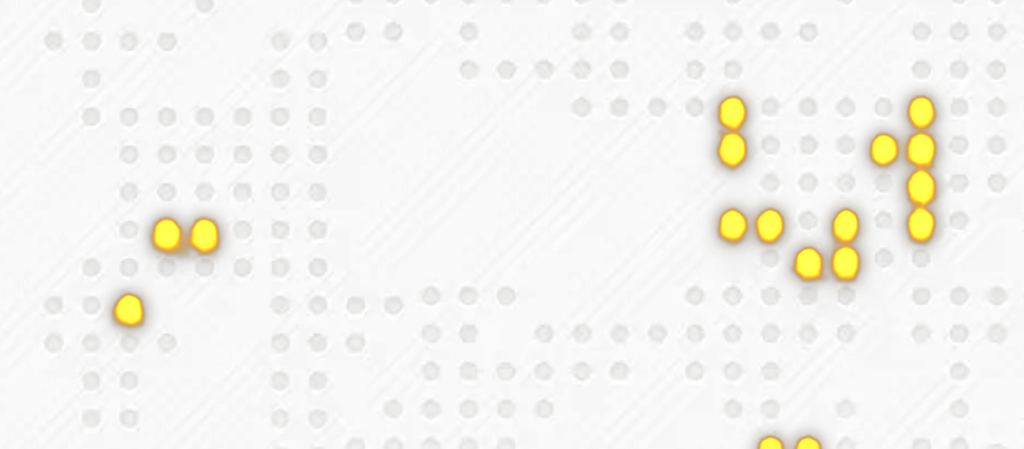
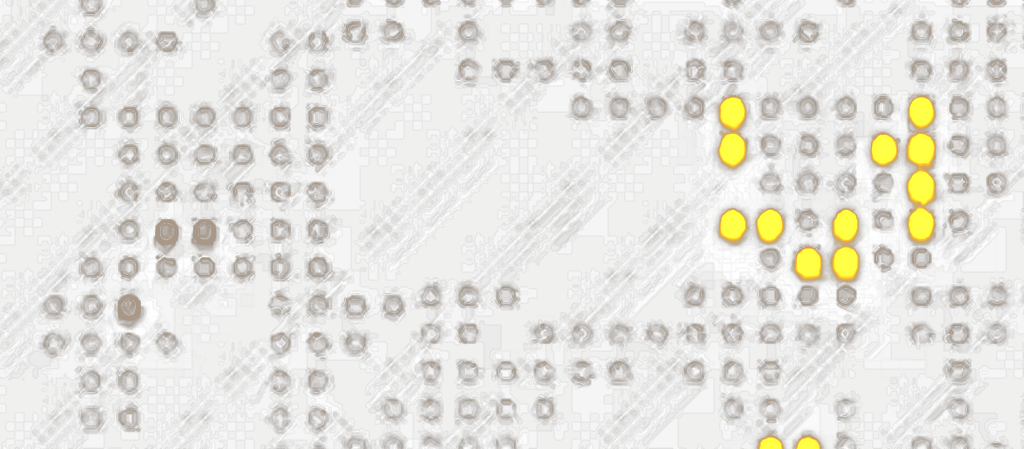
style(pricing): refine pegboard matrix contrast, clear dots behind price, and add 1-line value subtitle

diff --git a/app/web/src/components/marketing/veyro-card.tsx b/app/web/src/components/marketing/veyro-card.tsx
@@ -447,19 +447,21 @@ export interface BacklifyCardProps {
   className?: string;
   patternVariant?: "exact" | "brand" | "amber" | "blue";
   patternOpacity?: number;
+  subtitle?: string;
 }
 
 export function BacklifyProCardAdapted({
   className,
-  patternVariant = "exact",
+  patternVariant = "amber",
   patternOpacity = 0.95,
+  subtitle = "Complete database disaster recovery, continuous verification drills & incident alerts.",
 }: BacklifyCardProps) {
   const patternSrc =
-    patternVariant === "brand" || patternVariant === "amber"
-      ? "/pegboard-amber.png"
+    patternVariant === "exact"
+      ? "/pegboard-exact.png"
       : patternVariant === "blue"
       ? "/pegboard-blue.png"
-      : "/pegboard-exact.png";
+      : "/pegboard-amber.png";
 
   return (
     <div
@@ -497,15 +499,22 @@ export function BacklifyProCardAdapted({
       <div className="absolute top-0 inset-x-10 h-[1px] bg-gradient-to-r from-transparent via-amber-400/40 to-transparent pointer-events-none z-10" />
 
       {/* ── Eyebrow: // BACKLIFY PRO ── */}
-      <div className="flex items-center gap-2 mb-11 relative z-10">
+      <div className="flex items-center gap-2 mb-2 relative z-10">
         <span className="font-mono text-xs font-semibold text-amber-400 tracking-widest">//</span>
         <span className="font-mono text-[11px] font-semibold text-[#fef3c7] tracking-[0.18em] uppercase">
           BACKLIFY PRO
         </span>
       </div>
 
+      {/* ── 1-Line Value Subtitle (Clear Utility Context) ── */}
+      {subtitle && (
+        <p className="text-[12px] text-[#8a8f98] leading-relaxed mb-6 relative z-10 font-normal">
+          {subtitle}
+        </p>
+      )}
+
       {/* ── Price: $3 // MONTH ── */}
-      <div className="flex items-baseline gap-3 mb-8 relative z-10">
+      <div className="flex items-baseline gap-3 mb-7 relative z-10">
         <span className="font-sans text-[48px] font-medium tracking-[-0.03em] text-white leading-none">
           $3
         </span>

diff --git a/app/web/src/app/preview-pricing/preview-pricing-client.tsx b/app/web/src/app/preview-pricing/preview-pricing-client.tsx
@@ -5,7 +5,7 @@ import { VeyroProCard, BacklifyProCardAdapted } from "@/components/marketing/vey
 import { cn } from "@/lib/utils";
 
 export function PreviewPricingClient() {
-  const [patternMode, setPatternMode] = useState<"exact" | "brand">("exact");
+  const [patternMode, setPatternMode] = useState<"exact" | "brand">("brand");
   const [opacity, setOpacity] = useState<number>(0.95);
 
   return (
@@ -89,3 +89,4 @@ export function PreviewPricingClient() {
     </section>
   );
 }
+
